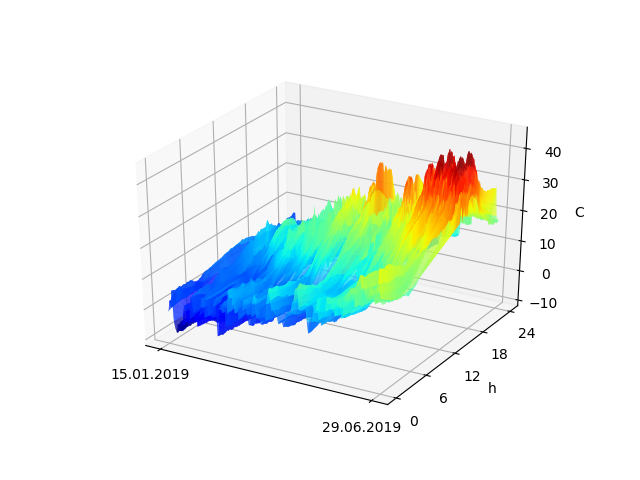
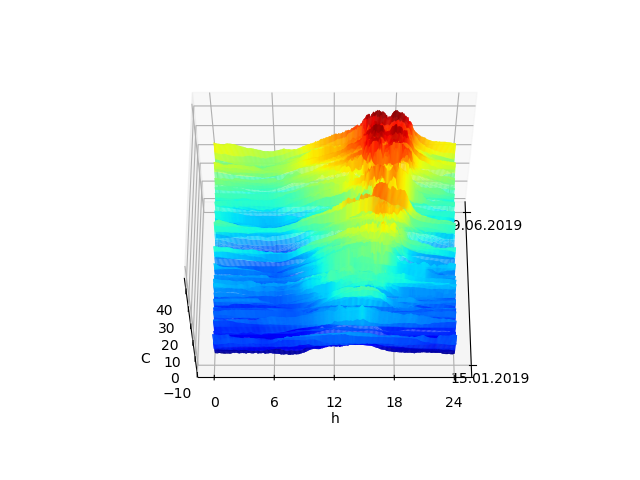
Merge branch 'master' of https://github.com/artkli/temperatury
# Conflicts:
#	README.md

diff --git a/temperatury.py b/temperatury.py
@@ -80,5 +80,7 @@ ax.set_yticks((0, 72, 144, 216, 288))
 ax.set_xticklabels([read_data.iloc[0]['date'], read_data.iloc[-1]['date']])
 ax.set_xticks((1, DAYS))
 ax.plot_surface(X, Y, Z, cmap=plt.cm.jet, rstride=1, cstride=1, linewidth=0)
+ax.view_init(elev=60, azim=180)
+ax.invert_yaxis()
 
 plt.show()
